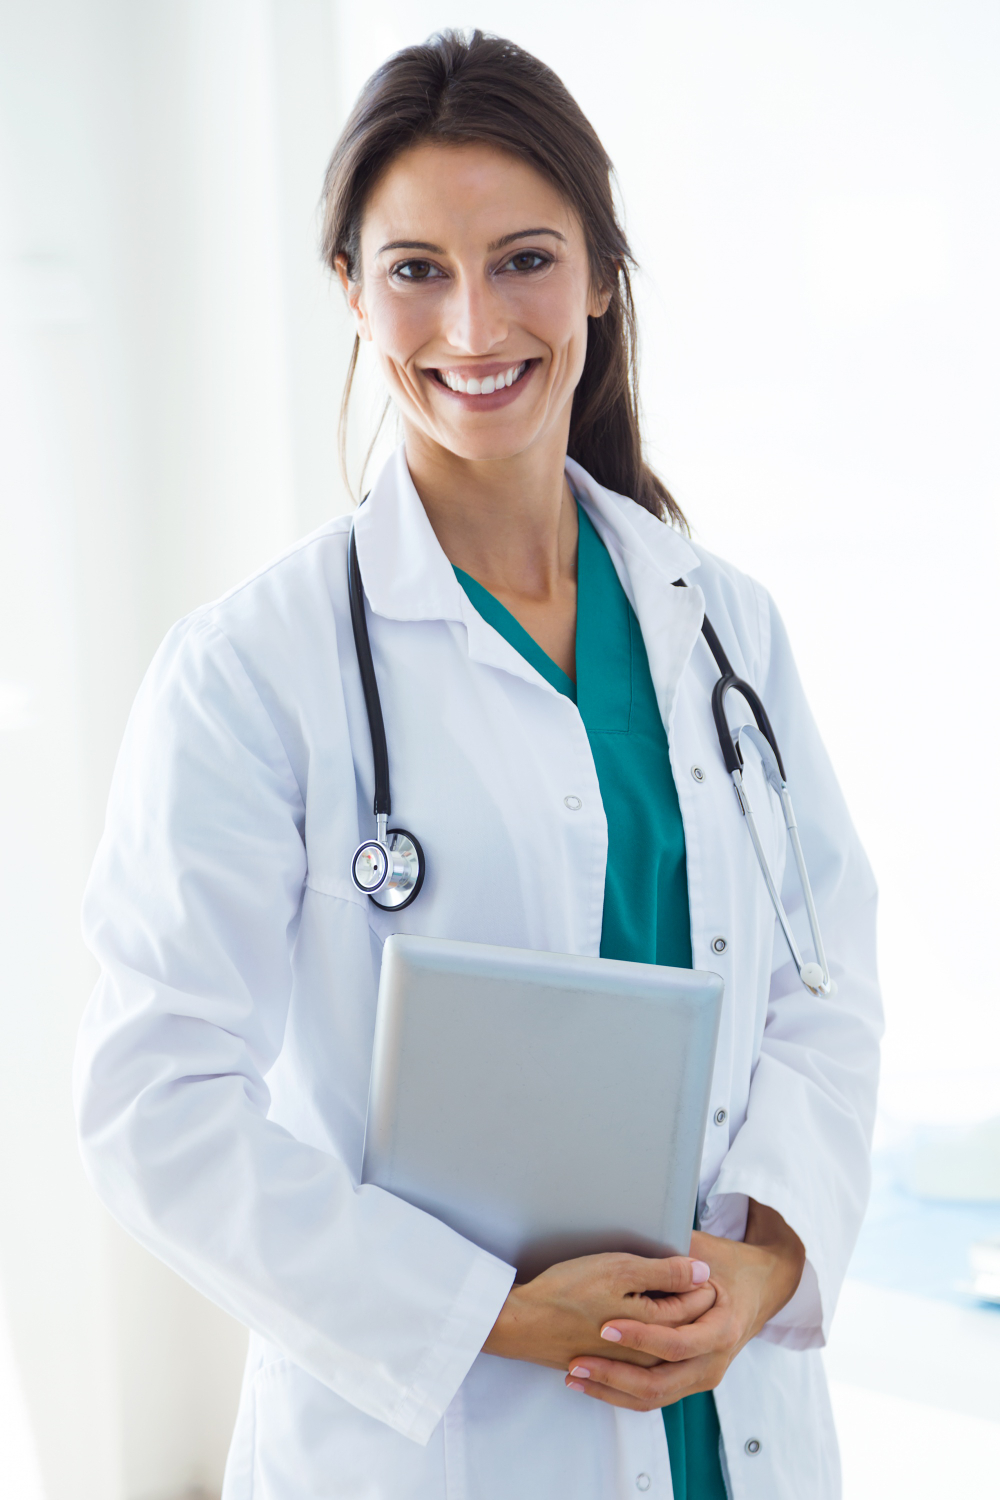
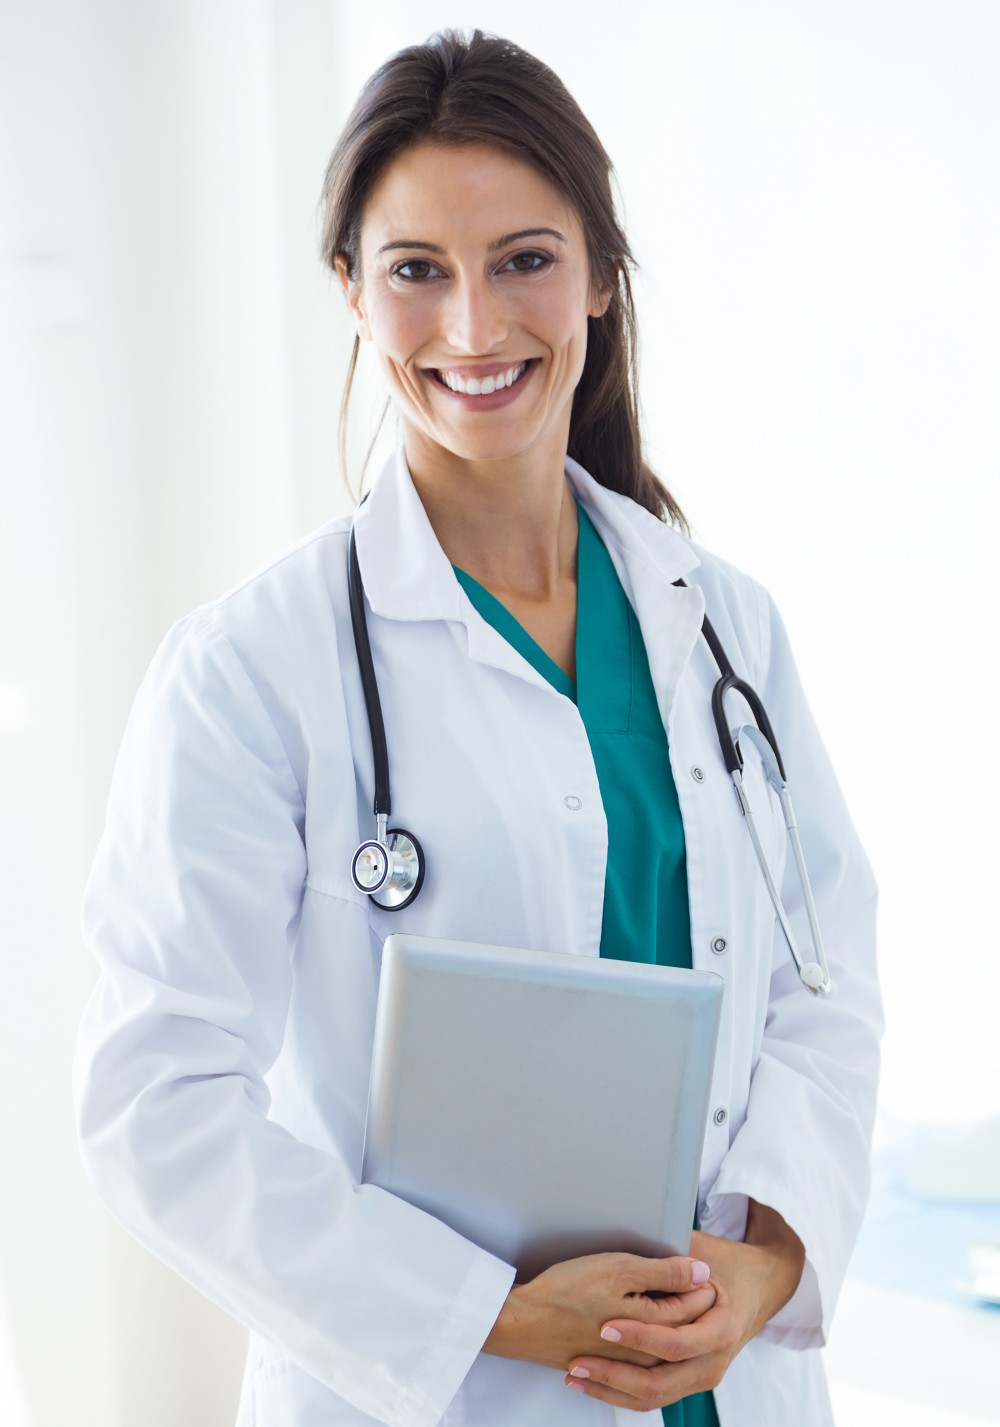
added acute section

diff --git a/src/components/acute/AcuteSection.jsx b/src/components/acute/AcuteSection.jsx
@@ -1,0 +1,72 @@
+import React from "react";
+import Image from "next/image";
+import { FaNotesMedical, FaVial, FaUserMd } from "react-icons/fa";
+
+export default function AcuteSection() {
+  return (
+    <section className="flex flex-col lg:flex-row items-center justify-between px-6 py-20 bg-gray-100">
+      {/* Image */}
+      <div className="mb-10 lg:mb-0 lg:w-1/2 flex justify-center">
+        <Image
+          src="/images/Acutee.jpg"
+          alt="Doctor"
+          width={500}
+          height={500}
+          className="rounded-lg"
+        />
+      </div>
+
+      {/* Content */}
+      <div className="lg:w-1/2 lg:pl-12">
+        <h2 className="text-3xl font-bold text-gray-900 mb-4">
+          ACUTE MEDICAL CARE
+        </h2>
+        <p className="text-gray-600 mb-8">
+          Comprehensive care for immediate health needs — from diagnosis to
+          treatment — ensuring timely medical attention when you need it most.
+        </p>
+
+        <div className="space-y-6">
+          <div className="flex space-x-4">
+            <FaNotesMedical className="text-3xl text-blue-500 mt-1" />
+            <div>
+              <h4 className="text-lg font-semibold">
+                Laboratory and Diagnostic Services
+              </h4>
+              <p className="text-gray-600 text-sm">
+                We provide on-site testing including blood work, imaging, and
+                X-rays to ensure rapid diagnosis and timely treatment.
+              </p>
+            </div>
+          </div>
+
+          <div className="flex space-x-4">
+            <FaVial className="text-3xl text-blue-500 mt-1" />
+            <div>
+              <h4 className="text-lg font-semibold">
+                Quick and Reliable Lab Results
+              </h4>
+              <p className="text-gray-600 text-sm">
+                Our lab team ensures fast turnaround with accurate, secure, and
+                accessible medical results.
+              </p>
+            </div>
+          </div>
+
+          <div className="flex space-x-4">
+            <FaUserMd className="text-3xl text-blue-500 mt-1" />
+            <div>
+              <h4 className="text-lg font-semibold">
+                Family and Internal Medicine
+              </h4>
+              <p className="text-gray-600 text-sm">
+                From pediatric to geriatric care, our physicians provide
+                long-term, holistic treatment for all age groups.
+              </p>
+            </div>
+          </div>
+        </div>
+      </div>
+    </section>
+  );
+}

diff --git a/src/app/page.js b/src/app/page.js
@@ -1,12 +1,13 @@
+import AcuteSection from "@/components/acute/AcuteSection";
 import Hero from "@/components/hero/Hero";
 import OurServices from "@/components/service/OurServices";
-import Image from "next/image";
 
 export default function Home() {
   return (
     <div className="max-w-7xl mx-auto">
       <Hero />
       <OurServices />
+      <AcuteSection />
     </div>
   );
 }

diff --git a/src/app/globals.css b/src/app/globals.css
@@ -1,2 +1,5 @@
 @import "tailwindcss";
-@plugin "daisyui";
+
+@plugin "daisyui" {
+  themes: light --default;
+}
